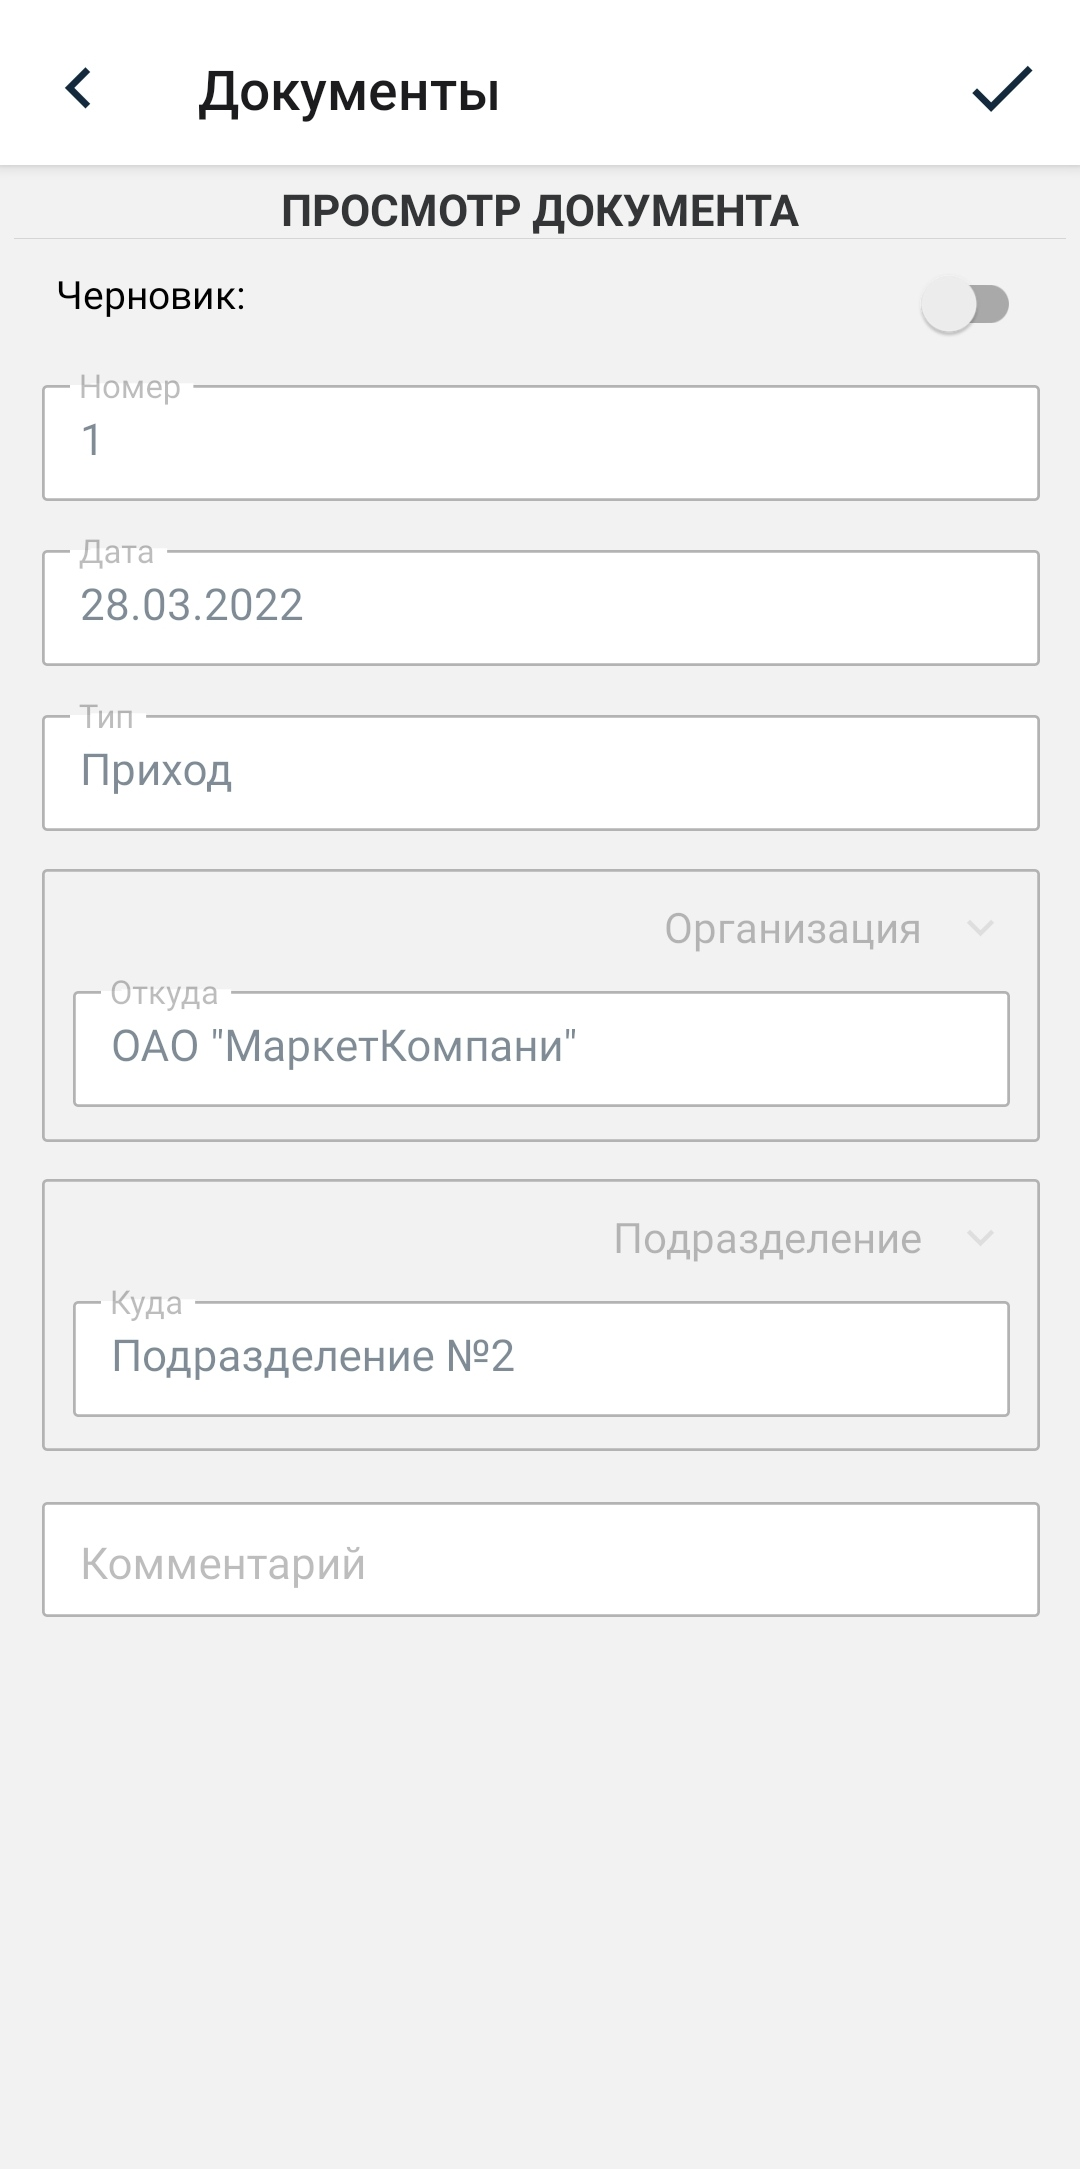
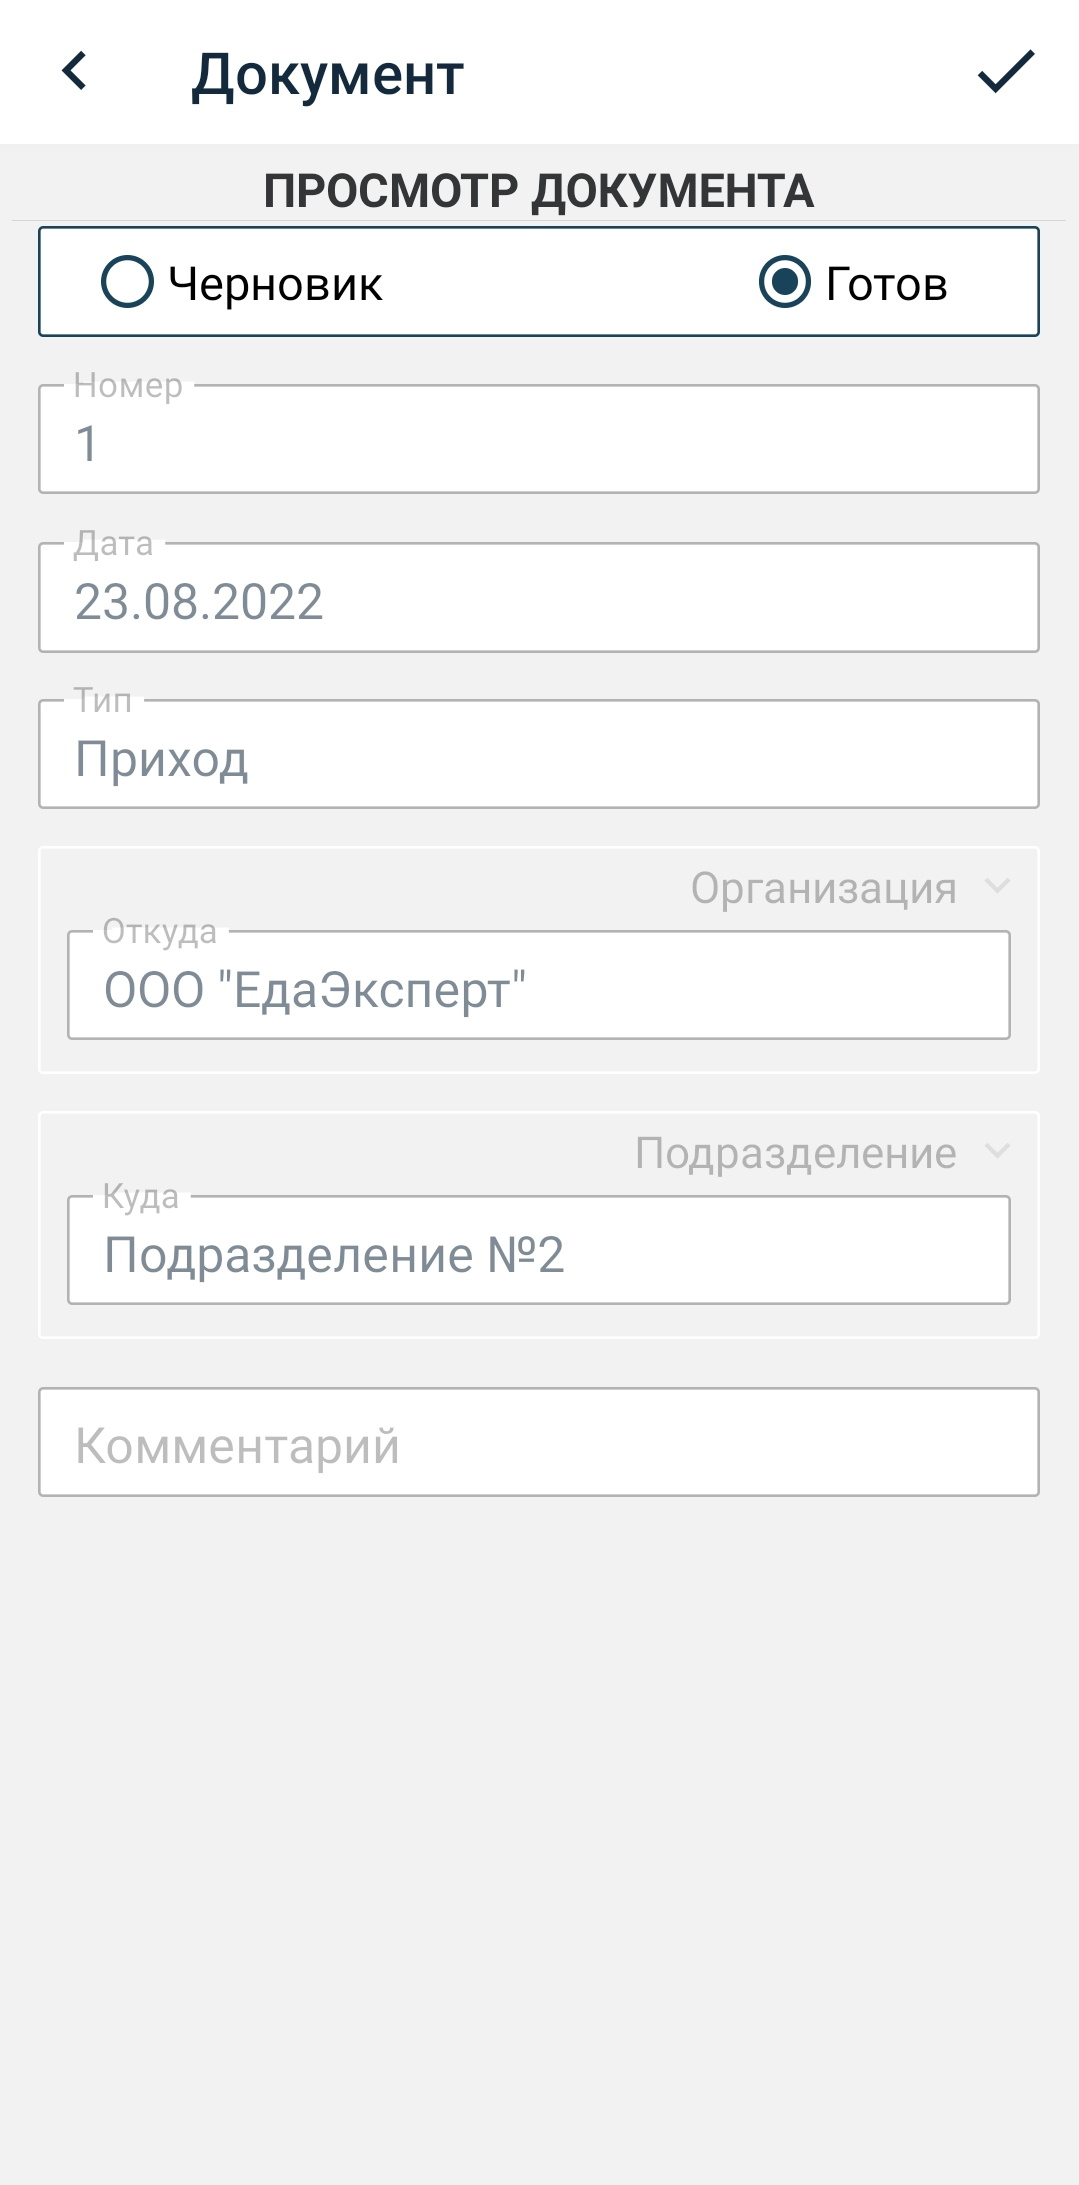
changes docs

diff --git a/docs/gdmn-gd-movement/docs/README.md b/docs/gdmn-gd-movement/docs/README.md
@@ -245,9 +245,9 @@
 
 При создании документ имеет статус **Черновик** (красный цвет).
 
-После ввода необходимых данных, чтобы отправить документ на обработку, необходимо снять признак **Черновик** на экране шапки документа.
+После ввода необходимых данных, чтобы отправить документ на обработку, необходимо поменять признак **Черновик** на экране шапки документа на признак **Готов к отправке**.
 
-Документ перейдет в состояние **Готов к отправке** (зеленый цвет) - редактировать данные нельзя.
+Документ перейдет в состояние **Готов к отправке** (зеленый цвет) - редактировать данные уже нельзя.
 
 <img src="img/3.Docs/3.PrihodEditDraft.jpg" alt="drawing" height="400"/> <img src="img/3.Docs/3.PrihodEditReady.jpg" alt="drawing" height="400"/> <img src="img/3.Docs/3.DocsReady.jpg" alt="drawing" height="400"/>
 
@@ -261,7 +261,7 @@
 
 <img src="img/3.Docs/3.DocsSentSync.jpg" alt="drawing" height="400"/> <img src="img/3.Docs/3.DocsSent.jpg" alt="drawing" height="400"/>
 
-Далее необходимо подождать 1-2 минуту и синхронизировать данные снова для получения ответа обработки, цвет станет синим.
+Далее необходимо подождать 1-2 минуту и синхронизировать данные снова для получения ответа обработки, цвет станет синим. В случае, если документ обработан с ошибкой, статус меняется на **Черновик**.
 
 <img src="img/3.Docs/3.DocsProcessed.jpg" alt="drawing" height="400"/>
 
@@ -271,17 +271,17 @@
 
 <img src="img/3.Docs/3.DelDoc.jpg" alt="drawing" height="400"/>
 
-Так же, когда документ находится в статусе **Черновик**, его можно удалить используя пункты меню **⁝** .
+Так же, когда документ находится в статусе **Черновик**, его можно удалить используя пункты меню " **⁝** " .
 
 <img src="img/3.Docs/3.MenuDelDoc.jpg" alt="drawing" height="400"/>
 
-Используя пункты меню **⁝** , расположенную в правом верхнем углу экрана **Документ** возможно: 
+Используя пункты меню " **⁝** ", расположенную в правом верхнем углу экрана **Документ** возможно: 
 - перейти на редактирование шапки документа (если статус **Черновик**)
 - удалить документ (если статус **Черновик**)
 - добавить товар
 
 Отменить удаление документа можно:
-- нажав на иконку **×** , в левом верхнем углу. Исчезнут все зеленые галочки с выбранных позиций, экран **Документы** вернется к изначальному состоянию.
+- нажав на иконку " **×** ", в левом верхнем углу. Исчезнут все зеленые галочки с выбранных позиций, экран **Документы** вернется к изначальному состоянию.
 - нажав иконку **Мусорная корзина** выбрать кнопку **Отмена** в появившемся окне "Уверены, что хотите удалить позиции документа?". При этом все зеленые галочки на выбранных позициях останутся на месте, можно продолжить удаление необходимых документов.
 
 ### Фильтры
@@ -307,12 +307,13 @@
 Экран **Профиль** содержит информацию о пользователе и об устройстве. 
 
 
-При выходе из демо режиме, кнопка **Выйти из демо режима** меняется на **Сменить пользователя**. Также здесь можно выйти из учетной записи пользователя.
+При выходе из демо режима, кнопка **Выйти из демо режима** меняется на **Сменить пользователя**. Также здесь можно выйти из учетной записи пользователя.
 
 Также этот экран позволяет: 
 - удалить все справочники и документы
 - удалить настройки пользователя
-Для этого необходимо нажать на иконку меню **⁝**, расположенную в правом верхнем углу, и выбрать пункт **Удалить все справочники и документы** или **Удалить настройки пользователя**, соответственно необходимости.
+
+Для этого необходимо нажать на иконку меню " **⁝** ", расположенную в правом верхнем углу, и выбрать пункт **Удалить все справочники и документы** или **Удалить настройки пользователя**, соответственно необходимости.
 
 
 
@@ -321,12 +322,14 @@
 
 ## 8. Сканирование
 
-Уточнение: ***если вы производите сканирование штрихкодов исключительно с помощью камеры мобильного устройства, то в настройках приложения необходимо перевести параметр **Использовать сканер** в отрицательное положение.***
+Уточнение: **если вы производите сканирование штрихкодов исключительно с помощью камеры мобильного устройства, то в настройках приложения необходимо перевести параметр ***Использовать сканер*** в отрицательное положение.**
 
-Вернемся на экран списка документов сканирования, выбрав пункт бокового меню **Сканирование**.
+Вернемся на экран списка документов сканирования, выбрав пункт бокового меню **Сканирование** (открыть боковое меню можно нажатием на иконку меню * ≡ *, находящуюся в верхнем углу приложения слева, или смахнув пальцем вправо с левого края устройства).
 
-Чтобы найти документ по наименованию можно воспользоваться строкой поиска в правом верхнем углу экрана.
+Чтобы найти документ по наименованию можно воспользоваться строкой поиска, нажав на иконку **Поиск** в правом верхнем углу экрана.
 
-При создании документ имеет статус Черновик. Заполняем необходимые поля: Номер, Дата, Подразделение, Комментарий и сохраняем документ, нажав на иконку **✓**.
+По нажатию на иконку * **+** *, в верхнем правом углу, переходим на экран добавления документа. При создании документ имеет статус Черновик. Заполняем необходимые поля: **Номер, Дата, Подразделение, Комментарий** и сохраняем документ, нажав на иконку **✓**.
 
 Нажимаем на иконку штрихкода <img src="img/10.Scanner/10.IconScanner.jpg" alt="drawing" height="22"/> в верхнем правом углу и переходим на экран сканирования товара.
+
+Для удобства работы можно использовать **Вспышку Вибрацию**  <img src="img/1.Connection/1.IconFlash.jpg" alt="drawing" height="30"/>  <img src="img/1.Connection/1.IconVibr.jpg" alt="drawing" height="30"/>
